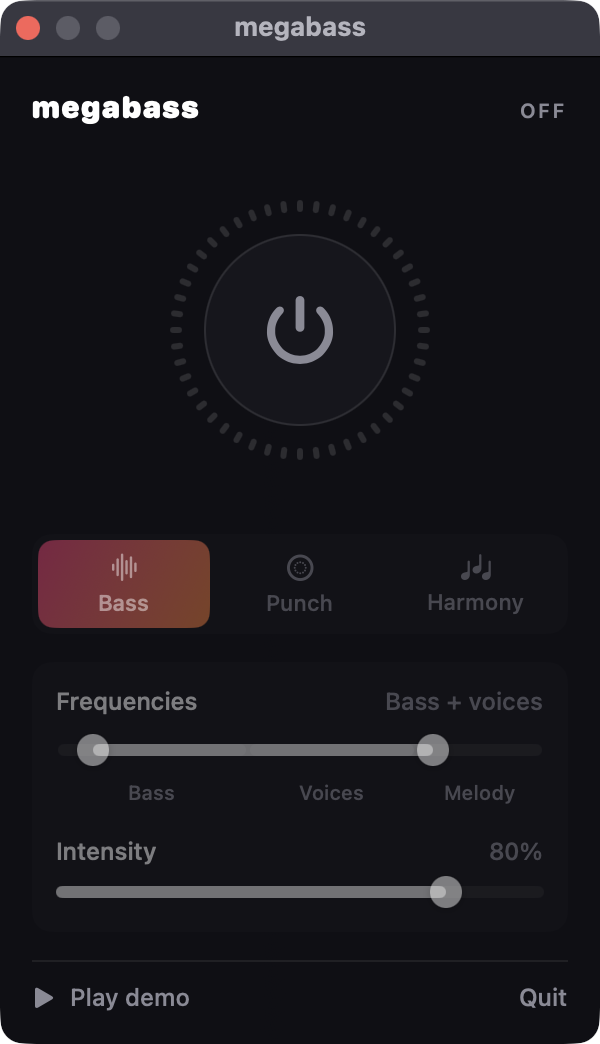
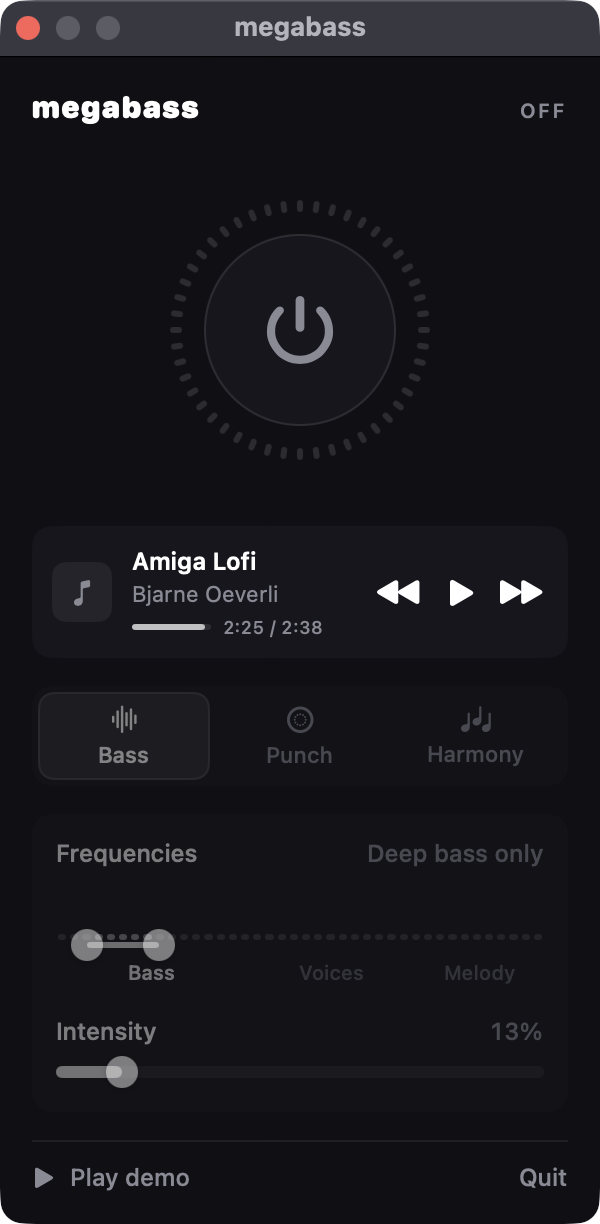
Spectrum becomes the Frequencies track; player row polish
Critic round 4: the visualizer (30 Hz-8 kHz) and the band handles (20 Hz-4 kHz) drew two axes
that disagreed, two panels apart. Now the live spectrum is the track of the Frequencies control
on one 20 Hz-4 kHz axis; bars between the handles glow, so you see what the trackpad plays.
Transport buttons get 28 pt targets and the track time sits on the progress line. The selected
mode is a glass tile with accent text so the hero stays loudest. Screenshot helper matches the
preview window by pid.

diff --git a/Sources/MegaBass/PopoverView.swift b/Sources/MegaBass/PopoverView.swift
@@ -21,13 +21,12 @@ struct PopoverView: View {
             header
             PowerRing(engine: engine)
                 .padding(.top, 4)
-            SpectrumStrip(engine: engine)
             if player.installed { NowPlaying(player: player) }
             if engine.needsPermission { permissionRow }
             Group {
                 ModePicker(mode: $engine.mode, enabled: engine.enabled)
                 VStack(spacing: 14) {
-                    LowBandControl(low: $engine.rumbleHz, high: $engine.crossover)
+                    LowBandControl(low: $engine.rumbleHz, high: $engine.crossover, spectrum: engine.spectrum, live: engine.enabled)
                     ValueSlider(label: "Intensity", value: $engine.intensity, range: 0...1, format: { "\(Int(($0 * 100).rounded()))%" })
                 }
                 .padding(12)
@@ -174,11 +173,12 @@ struct ModePicker: View {
                         Text(m.title).font(.system(size: 11, weight: .medium))
                     }
                     .frame(maxWidth: .infinity, minHeight: 44)
-                    .foregroundStyle(mode == m ? .white : Theme.secondary)
+                    .foregroundStyle(mode == m ? (enabled ? AnyShapeStyle(Theme.accent) : AnyShapeStyle(Color.white)) : AnyShapeStyle(Theme.secondary))
                     .background {
                         if mode == m {
                             RoundedRectangle(cornerRadius: 8)
-                                .fill(enabled ? AnyShapeStyle(Theme.accent) : AnyShapeStyle(Color.white.opacity(0.14)))
+                                .fill(Color.white.opacity(0.1))
+                                .overlay(RoundedRectangle(cornerRadius: 8).strokeBorder(Color.white.opacity(0.12), lineWidth: 1))
                                 .matchedGeometryEffect(id: "thumb", in: thumb)
                         }
                     }
@@ -209,7 +209,9 @@ struct ModePicker: View {
 struct LowBandControl: View {
     @Binding var low: Double
     @Binding var high: Double
-    static let range = 20.0...4000.0
+    var spectrum: [Double] = []
+    var live = false
+    static let range = SpectrumAnalyzer.range
     /// Plain-language zones on the strip.
     static let zones: [(name: String, from: Double, to: Double)] = [("Bass", 20, 160), ("Voices", 160, 1000), ("Melody", 1000, 4000)]
 
@@ -233,7 +235,7 @@ struct LowBandControl: View {
                 Spacer()
                 Text(summary).font(.system(size: 12, weight: .medium)).foregroundStyle(Theme.secondary)
             }
-            BandStrip(low: $low, high: $high)
+            BandStrip(low: $low, high: $high, spectrum: spectrum, live: live)
         }
         .help("The trackpad plays \(hzText). Left handle: how deep. Right handle: how much of the song. Above the bass it only plays notes that stand out and last.")
     }
@@ -243,6 +245,8 @@ struct LowBandControl: View {
 struct BandStrip: View {
     @Binding var low: Double
     @Binding var high: Double
+    var spectrum: [Double] = []
+    var live = false
     private let r = LowBandControl.range
 
     private func x(_ hz: Double, _ w: CGFloat) -> CGFloat { CGFloat(log(hz / r.lowerBound) / log(r.upperBound / r.lowerBound)) * w }
@@ -253,34 +257,45 @@ struct BandStrip: View {
             let w = g.size.width
             let xl = x(low, w), xh = x(high, w)
             ZStack(alignment: .topLeading) {
-                // Zones: faint segments with their names centred below.
+                // The track is the live spectrum on the same axis: bars the trackpad plays glow.
+                let n = max(1, spectrum.count)
+                let barW = w / CGFloat(n)
+                ForEach(0..<n, id: \.self) { i in
+                    let v = i < spectrum.count ? spectrum[i] : 0
+                    let hz = r.lowerBound * pow(r.upperBound / r.lowerBound, (Double(i) + 0.5) / Double(n))
+                    let inBand = hz >= low && hz <= high
+                    let h = 3 + 25 * CGFloat(live ? v : 0)
+                    RoundedRectangle(cornerRadius: 1.5)
+                        .fill(inBand ? (live ? AnyShapeStyle(Theme.accent) : AnyShapeStyle(Color.white.opacity(0.5))) : AnyShapeStyle(Color.white.opacity(0.16)))
+                        .frame(width: max(1.5, barW - 2), height: h)
+                        .offset(x: CGFloat(i) * barW + 1, y: 30 - h)
+                }
+                // Zone names under the track.
                 ForEach(LowBandControl.zones, id: \.name) { z in
                     let a = x(z.from, w), b = x(z.to, w)
-                    Capsule().fill(Color.white.opacity(0.08))
-                        .frame(width: b - a - 2, height: 6)
-                        .offset(x: a + 1, y: 8)
                     Text(z.name)
                         .font(.system(size: 10, weight: .medium))
                         .foregroundStyle(high > z.from && low < z.to ? Color.white.opacity(0.9) : Theme.secondary.opacity(0.6))
                         .fixedSize()
                         .frame(width: b - a)
-                        .offset(x: a, y: 26)
+                        .offset(x: a, y: 40)
                 }
+                // The band itself: a thin bar along the bottom of the track, handles on it.
                 Capsule().fill(Color.white.opacity(0.85))
-                    .frame(width: max(6, xh - xl), height: 6)
-                    .offset(x: xl, y: 8)
-                handle.offset(x: xl - 8, y: 3)
+                    .frame(width: max(4, xh - xl), height: 3)
+                    .offset(x: xl, y: 31)
+                handle.offset(x: xl - 8, y: 24.5)
                     .accessibilityElement()
                     .accessibilityLabel("Depth")
                     .accessibilityValue("\(Int(low)) hertz")
                     .accessibilityAdjustableAction { dir in low = max(r.lowerBound, min(high / 1.5, low * (dir == .increment ? 1.1 : 0.9))).rounded() }
-                handle.offset(x: xh - 8, y: 3)
+                handle.offset(x: xh - 8, y: 24.5)
                     .accessibilityElement()
                     .accessibilityLabel("How much of the song")
                     .accessibilityValue("up to \(Int(high)) hertz")
                     .accessibilityAdjustableAction { dir in high = max(low * 1.5, min(r.upperBound, high * (dir == .increment ? 1.1 : 0.9))).rounded() }
             }
-            .frame(width: w, height: 40, alignment: .topLeading)
+            .frame(width: w, height: 54, alignment: .topLeading)
             .contentShape(Rectangle())
             .gesture(DragGesture(minimumDistance: 0)
                 .onChanged { d in
@@ -293,7 +308,8 @@ struct BandStrip: View {
                 }
                 .onEnded { _ in Detents.last["band"] = nil })
         }
-        .frame(height: 40)
+        .frame(height: 54)
+        .animation(.linear(duration: 0.06), value: spectrum)
     }
 
     private var handle: some View {
@@ -368,40 +384,6 @@ struct ValueSlider: View {
 /// Last quarter each slider sat in (no @State: the Command Line Tools ship without SwiftUI's macro plugin).
 @MainActor enum Detents { static var last: [String: Int] = [:] }
 
-/// The visualizer: what the Mac is playing, 30 Hz to 8 kHz, with the note the trackpad is on.
-struct SpectrumStrip: View {
-    @ObservedObject var engine: Engine
-
-    var body: some View {
-        VStack(spacing: 4) {
-            HStack(alignment: .bottom, spacing: 2) {
-                ForEach(Array(engine.spectrum.enumerated()), id: \.offset) { i, v in
-                    // Bars the trackpad is playing (inside the Frequencies band) glow; the rest stay quiet.
-                    let hz = 30 * pow(8000 / 30, (Double(i) + 0.5) / Double(engine.spectrum.count))
-                    let inBand = hz >= engine.rumbleHz && hz <= engine.crossover
-                    Capsule()
-                        .fill(inBand && engine.enabled ? AnyShapeStyle(Theme.accent) : AnyShapeStyle(Color.white.opacity(0.28)))
-                        .frame(height: max(2, 26 * v))
-                }
-            }
-            .frame(height: 26, alignment: .bottom)
-            HStack {
-                Text("30 Hz").foregroundStyle(Theme.secondary.opacity(0.6))
-                Spacer()
-                Text(engine.enabled && !engine.note.isEmpty ? "trackpad ♪ " + engine.note : " ")
-                    .foregroundStyle(Theme.secondary)
-                Spacer()
-                Text("8 kHz").foregroundStyle(Theme.secondary.opacity(0.6))
-            }
-            .font(.system(size: 9, weight: .medium).monospacedDigit())
-        }
-        .animation(.linear(duration: 0.06), value: engine.spectrum)
-        .accessibilityElement()
-        .accessibilityLabel("Spectrum")
-        .accessibilityValue(engine.note.isEmpty ? "" : "Trackpad playing \(engine.note)")
-    }
-}
-
 /// cliamp now playing: title, artist, progress and transport. Start a playlist if cliamp is idle.
 struct NowPlaying: View {
     @ObservedObject var player: CliampBridge
@@ -418,18 +400,24 @@ struct NowPlaying: View {
                     Text(player.title).font(.system(size: 12, weight: .semibold)).foregroundStyle(.white).lineLimit(1)
                     Text(player.artist.isEmpty ? "cliamp" : player.artist).font(.system(size: 11)).foregroundStyle(Theme.secondary).lineLimit(1)
                     if player.duration > 0 {
-                        GeometryReader { g in
-                            ZStack(alignment: .leading) {
-                                Capsule().fill(Color.white.opacity(0.1))
-                                Capsule().fill(Color.white.opacity(0.7)).frame(width: g.size.width * min(1, player.position / player.duration))
+                        HStack(spacing: 6) {
+                            GeometryReader { g in
+                                ZStack(alignment: .leading) {
+                                    Capsule().fill(Color.white.opacity(0.1))
+                                    Capsule().fill(Color.white.opacity(0.7)).frame(width: g.size.width * min(1, player.position / player.duration))
+                                }
                             }
+                            .frame(height: 3)
+                            Text(Self.time(player.position) + " / " + Self.time(player.duration))
+                                .font(.system(size: 9, weight: .medium).monospacedDigit())
+                                .foregroundStyle(Theme.secondary)
+                                .fixedSize()
                         }
-                        .frame(height: 3)
                         .padding(.top, 2)
                     }
                 }
                 Spacer(minLength: 4)
-                HStack(spacing: 12) {
+                HStack(spacing: 2) {
                     transport("backward.fill", "Previous track") { player.prev() }
                     transport(player.playing ? "pause.fill" : "play.fill", player.playing ? "Pause" : "Play") { player.toggle() }
                     transport("forward.fill", "Next track") { player.next() }
@@ -453,9 +441,13 @@ struct NowPlaying: View {
         .background(RoundedRectangle(cornerRadius: 10).fill(Theme.panel))
     }
 
+    static func time(_ s: Double) -> String { String(format: "%d:%02d", Int(s) / 60, Int(s) % 60) }
+
     private func transport(_ symbol: String, _ label: String, _ action: @escaping () -> Void) -> some View {
         Button(action: action) {
-            Image(systemName: symbol).font(.system(size: 13, weight: .semibold)).foregroundStyle(.white)
+            Image(systemName: symbol).font(.system(size: 15, weight: .semibold)).foregroundStyle(.white)
+                .frame(width: 28, height: 28)
+                .contentShape(Rectangle())
         }
         .buttonStyle(.plain)
         .accessibilityLabel(label)

diff --git a/Sources/MegaBassCore/SpectrumAnalyzer.swift b/Sources/MegaBassCore/SpectrumAnalyzer.swift
@@ -2,7 +2,8 @@ import Accelerate
 import Foundation
 
 /// Log-spaced band levels (0...1) of whatever the Mac plays, for the popover's visualizer.
-/// 2048-point FFT every ~33 ms; bands from 30 Hz to 8 kHz; auto-gained over a 60 dB window.
+/// 2048-point FFT every ~33 ms; bands from 20 Hz to 4 kHz (the trackpad's range, the same axis as
+/// the Frequencies control); auto-gained over a 60 dB window.
 public final class SpectrumAnalyzer {
     public let sampleRate: Double
     public let bandCount: Int
@@ -19,7 +20,9 @@ public final class SpectrumAnalyzer {
     private let edges: [Int]
     private var peakDB: Float = -60
 
-    public init(sampleRate: Double, bands: Int = 28) {
+    public static let range = 20.0...4000.0
+
+    public init(sampleRate: Double, bands: Int = 40) {
         self.sampleRate = sampleRate
         bandCount = bands
         setup = vDSP_create_fftsetup(log2n, FFTRadix(kFFTRadix2))!
@@ -34,7 +37,7 @@ public final class SpectrumAnalyzer {
         let size = 2048
         let binHz = sampleRate / Double(size)
         edges = (0...bands).map { i in
-            let hz = 30 * pow(8000 / 30, Double(i) / Double(bands))
+            let hz = Self.range.lowerBound * pow(Self.range.upperBound / Self.range.lowerBound, Double(i) / Double(bands))
             return max(1, min(size / 2 - 1, Int((hz / binHz).rounded())))
         }
     }

diff --git a/scripts/winid.swift b/scripts/winid.swift
@@ -1,3 +1,12 @@
+// Prints window number, layer and bounds of on-screen windows owned by a process.
+// Usage: winid <owner-name-substring> [pid]
 import CoreGraphics
 let l = CGWindowListCopyWindowInfo([.optionOnScreenOnly], kCGNullWindowID) as! [[String: Any]]
-for w in l { if let o = w["kCGWindowOwnerName"] as? String, o.lowercased().contains(CommandLine.arguments[1]) { print(w["kCGWindowNumber"]!, w["kCGWindowLayer"]!, w["kCGWindowBounds"]!) } }
+let pid = CommandLine.arguments.count > 2 ? Int(CommandLine.arguments[2]) : nil
+for w in l {
+    guard let o = w["kCGWindowOwnerName"] as? String, o.lowercased().contains(CommandLine.arguments[1]) else { continue }
+    if let pid, (w["kCGWindowOwnerPID"] as? Int) != pid { continue }
+    // The preview window is the tall one; skip menu bar items and small popups.
+    if let b = w["kCGWindowBounds"] as? [String: Any], let h = b["Height"] as? Double, h < 200 { continue }
+    print(w["kCGWindowNumber"]!, w["kCGWindowLayer"]!)
+}

diff --git a/Sources/MegaBassCore/Engine.swift b/Sources/MegaBassCore/Engine.swift
@@ -24,8 +24,8 @@ public final class Engine: ObservableObject {
     @Published public private(set) var note = ""
     @Published public private(set) var kickPulse: Double = 0
     @Published public private(set) var history: [Double] = Array(repeating: 0, count: 32)
-    /// 28 log-spaced bands, 30 Hz to 8 kHz, 0...1: what the Mac is playing, for the visualizer.
-    @Published public private(set) var spectrum: [Double] = Array(repeating: 0, count: 28)
+    /// 40 log-spaced bands, 20 Hz to 4 kHz, 0...1: what the Mac is playing, drawn as the Frequencies track.
+    @Published public private(set) var spectrum: [Double] = Array(repeating: 0, count: 40)
 
     private let defaults = UserDefaults.standard
     private var motor: Motor?
